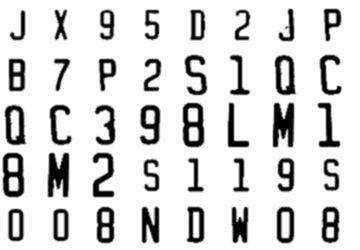
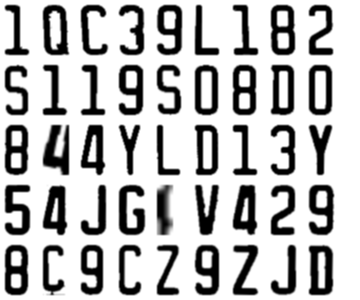
ahora todos los caracteres son del mismo tamaño wiii

diff --git a/patchfinder.py b/patchfinder.py
@@ -127,16 +127,17 @@ class PatchFinder(Daemon):
         corta los blobs que se encuentran dentro del blob de la patente
         con un padding de 20px alrededor
         '''
+
+        blobCroped = blob.crop().resize(h=50)
         new_img = Image(
             copyMakeBorder(
-            
-                blob.crop().getNumpyCv2(),
-                15,15,15,15,BORDER_CONSTANT, 
+                blobCroped.getNumpyCv2(),
+                5,5,5,5,BORDER_CONSTANT, 
                 value=Color.BLACK),
             
             cv2image=True).rotate90()
 
-        return new_img.resize(h=50).invert().smooth()
+        return new_img.invert().smooth()
 
     
     def preProcess(self, img):

diff --git a/ocr/maketiff.py b/ocr/maketiff.py
@@ -4,7 +4,7 @@ import re
 
 class MakeTiff:
 	
-	__blobsChars = "blobsChars"
+	__blobsChars = "../blobsChars"
 
 	__dirs = os.listdir(__blobsChars)
 
@@ -14,7 +14,7 @@ class MakeTiff:
 
 	__numRowOfSheet = 5
 
-	__sheetHight = __numRowOfSheet * 50
+	__sheetHight = __numRowOfSheet * 60
 
 	__outputFolder = "training-tiff"
 
@@ -74,7 +74,7 @@ class MakeTiff:
 		for row in rows:
 			x = 0
 			for png in row:
-				self.insertPNG(output, x*w,y*50,png)
+				self.insertPNG(output, x*w,y*60,png)
 				x += 1
 			y += 1
 
